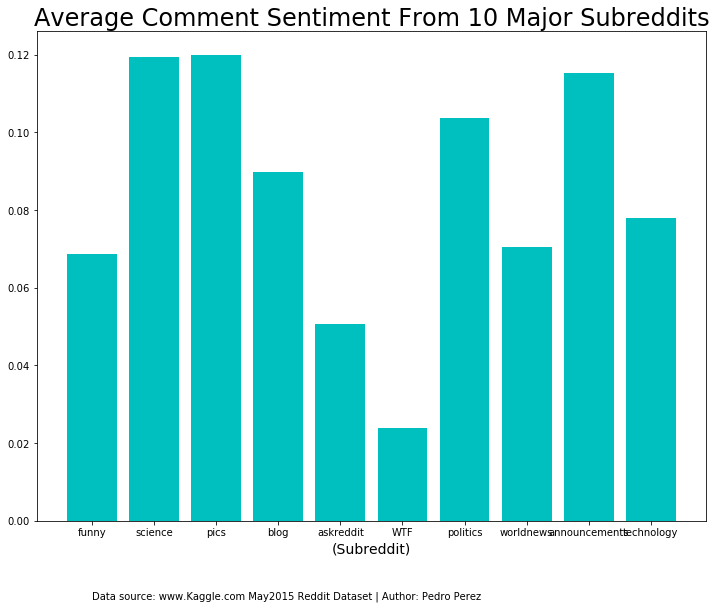
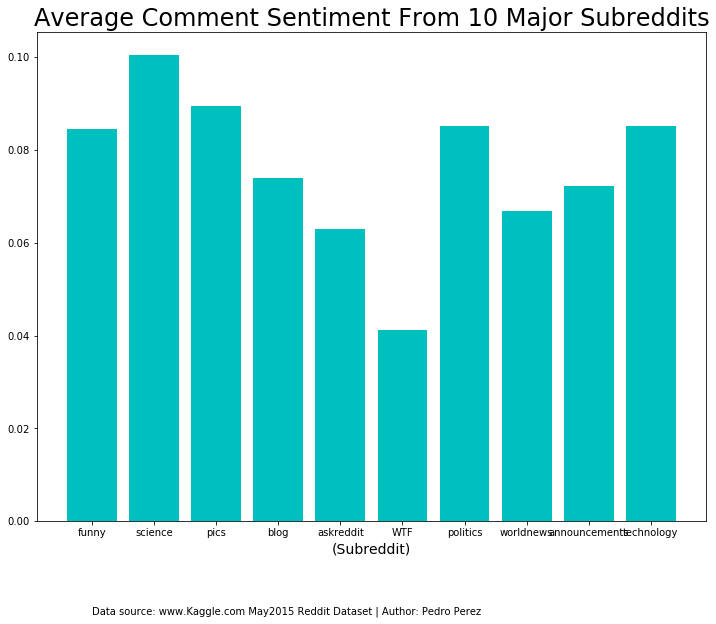
Sample size increase
Changed sample size of comments per subreddit from 1000 to 80,000 for a more representative proportion

diff --git a/redditbot.py b/redditbot.py
@@ -31,52 +31,52 @@ c = sql_conn.cursor()
 announcementsData = c.execute("SELECT body FROM May2015\
                          WHERE subreddit = 'announcements'\
                          AND LENGTH(body) > 25\
-                         LIMIT 1000")
+                         LIMIT 80000")
 d = sql_conn.cursor()
 blogData = d.execute("SELECT body FROM May2015\
                          WHERE subreddit = 'blog'\
                          AND LENGTH(body) > 25\
-                         LIMIT 1000") 
+                         LIMIT 80000") 
 e = sql_conn.cursor()
 picsData = e.execute("SELECT body FROM May2015\
                          WHERE subreddit = 'pics'\
                          AND LENGTH(body) > 25\
-                         LIMIT 1000")
+                         LIMIT 80000")
 l = sql_conn.cursor()
 funnyData = l.execute("SELECT body FROM May2015\
                          WHERE subreddit = 'funny'\
                          AND LENGTH(body) > 25\
-                         LIMIT 1000")            
+                         LIMIT 80000")            
 f = sql_conn.cursor()
 askredditData = f.execute("SELECT body FROM May2015\
                          WHERE subreddit = 'AskReddit'\
                          AND LENGTH(body) > 25\
-                         LIMIT 1000")
+                         LIMIT 80000")
 g = sql_conn.cursor()
 scienceData = g.execute("SELECT body FROM May2015\
                          WHERE subreddit = 'science'\
                          AND LENGTH(body) > 25\
-                         LIMIT 1000") 
+                         LIMIT 80000") 
 h = sql_conn.cursor()
 wtfData = h.execute("SELECT body FROM May2015\
                          WHERE subreddit = 'WTF'\
                          AND LENGTH(body) > 25\
-                         LIMIT 1000") 
+                         LIMIT 80000") 
 i = sql_conn.cursor()
 politicsData = i.execute("SELECT body FROM May2015\
                          WHERE subreddit = 'politics'\
                          AND LENGTH(body) > 25\
-                         LIMIT 1000")
+                         LIMIT 80000")
 j = sql_conn.cursor()
 worldnewsData = j.execute("SELECT body FROM May2015\
                          WHERE subreddit = 'worldnews'\
                          AND LENGTH(body) > 25\
-                         LIMIT 1000") 
+                         LIMIT 80000") 
 k = sql_conn.cursor()
 technologyData = k.execute("SELECT body FROM May2015\
                          WHERE subreddit = 'technology'\
                          AND LENGTH(body) > 25\
-                         LIMIT 1000") 
+                         LIMIT 80000") 
 # MAKE SURE order of FinalData matches FinalSubs so the plot doesn't get disorganized.
 
 FinalData = sentianalyze(announcementsData.fetchall()), sentianalyze(blogData.fetchall()), sentianalyze(picsData.fetchall()), sentianalyze(funnyData.fetchall()), sentianalyze(askredditData.fetchall()), sentianalyze(scienceData.fetchall()), sentianalyze(wtfData.fetchall()), sentianalyze(politicsData.fetchall()), sentianalyze(worldnewsData.fetchall()), sentianalyze(technologyData.fetchall())
